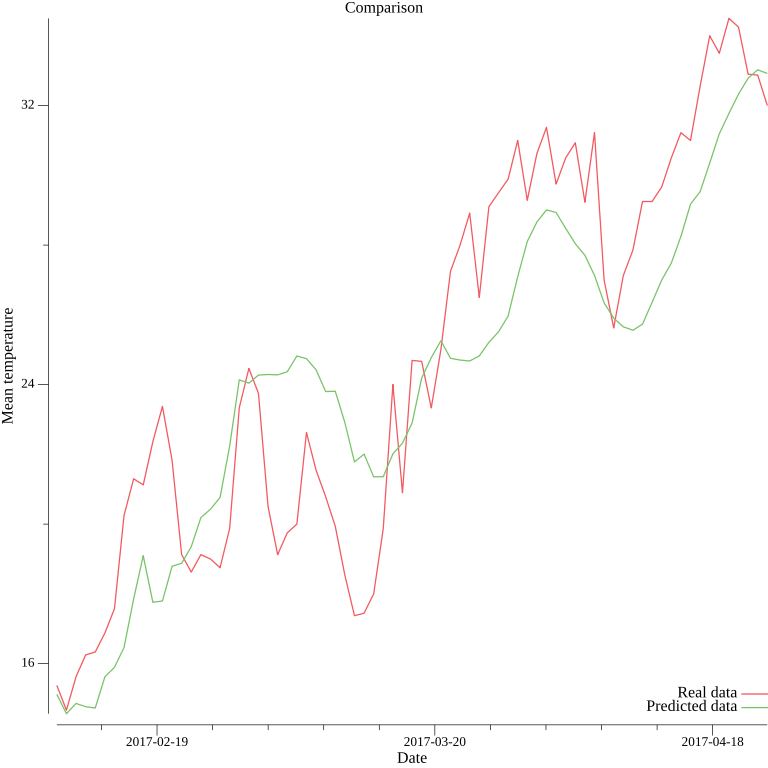
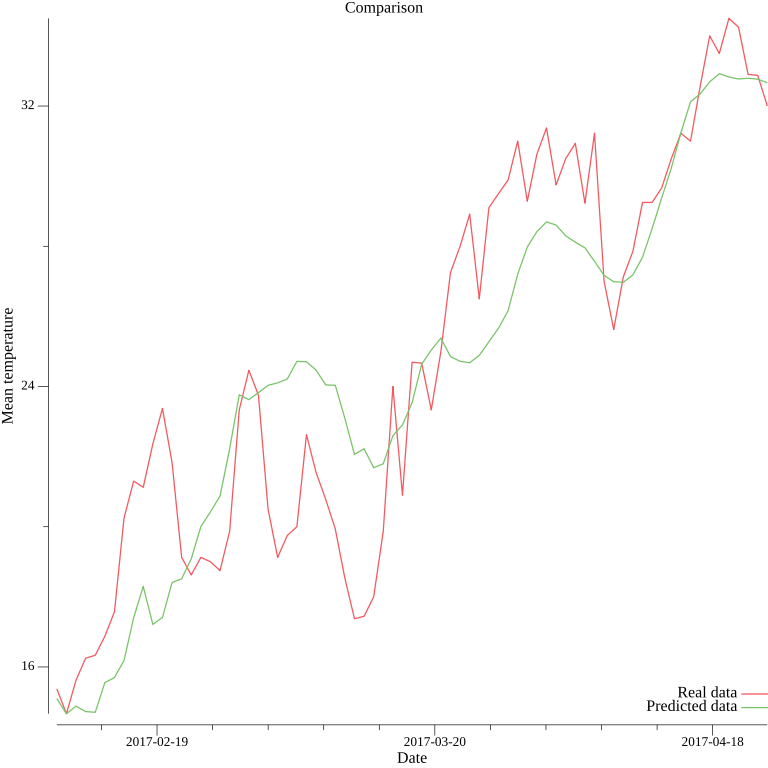
Feat: update width for more accuracy

diff --git a/rbf/rbf.go b/rbf/rbf.go
@@ -37,7 +37,7 @@ func NewRBFNetwork(templatesInputs mat.Matrix) *RBFNetwork {
 	// Ширина каждого окна равна 1
 	widths := make([]float64, centersAmount)
 	for i := range centersAmount {
-		widths[i] = 1
+		widths[i] = 0.9
 	}
 
 	return &RBFNetwork{centers, weights, widths}
